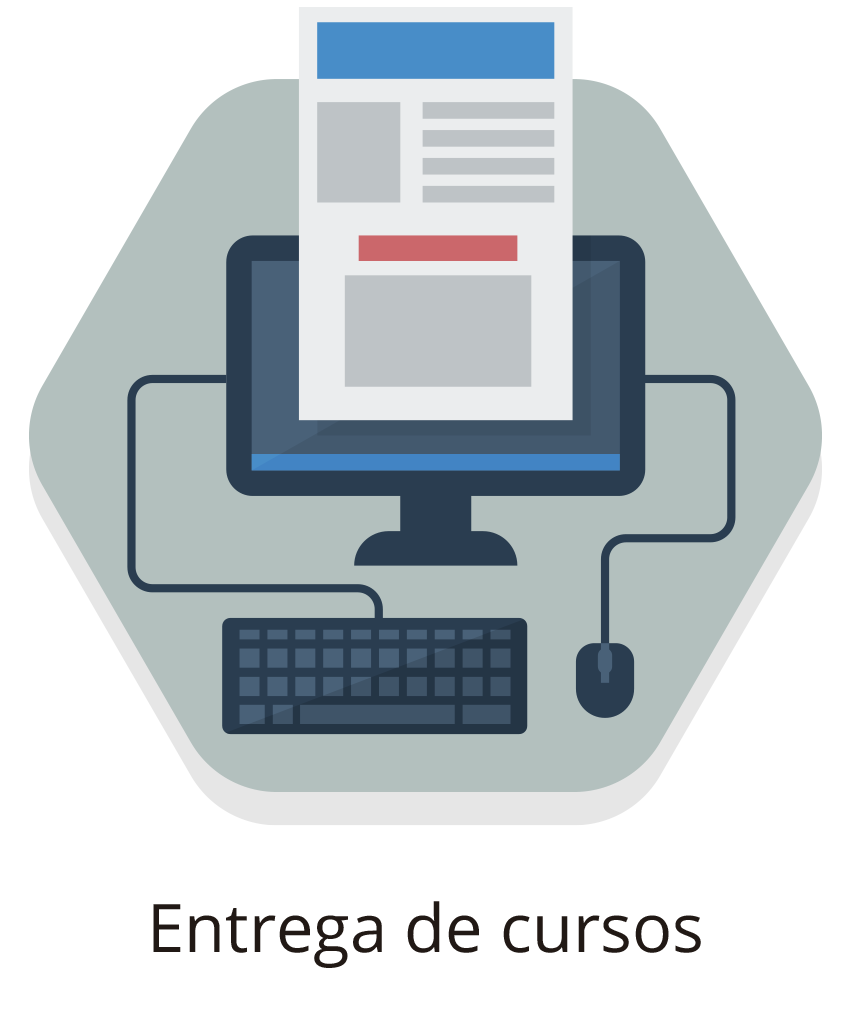
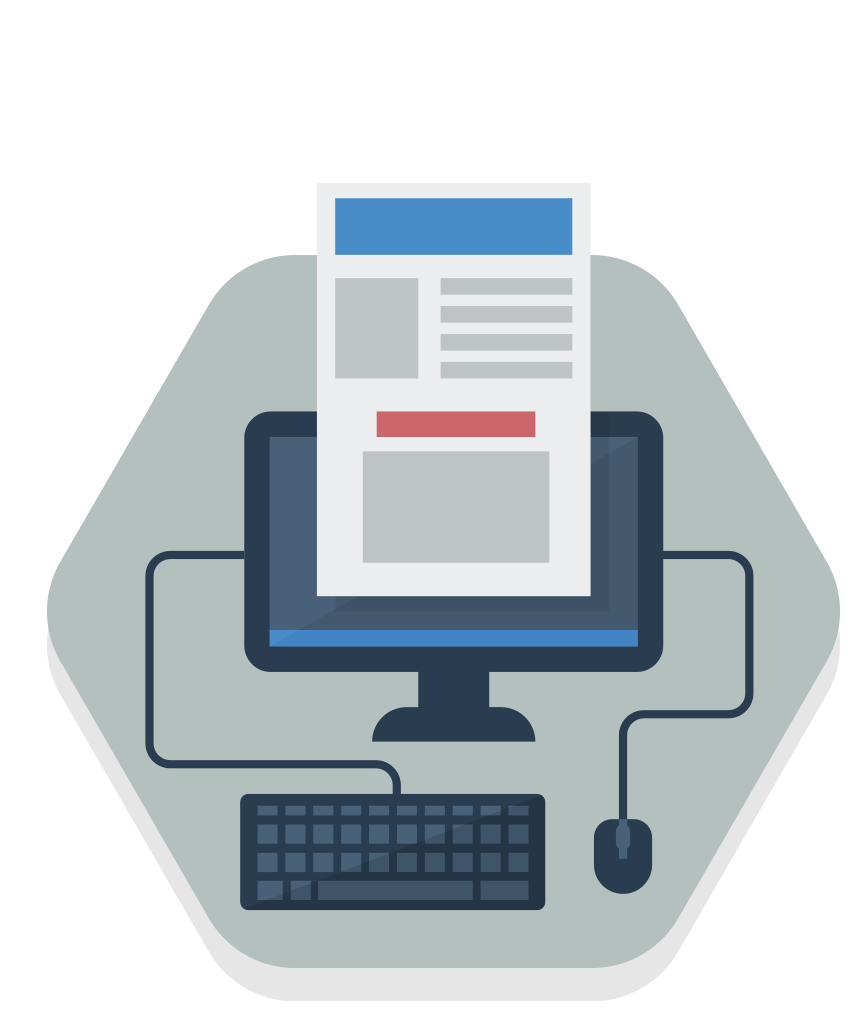
Cambios en iconos principales
Cambios en iconos principales y css

diff --git a/css/style.css b/css/style.css
@@ -12,7 +12,7 @@
 	margin: 20px;
 /*	background-size: 250px 250px;*/
 	background-size: 190px ;
-	height: 190px;
+	height: 200px;
 	width: 165px;
 }
 
@@ -30,13 +30,15 @@
 
 #bcd_01{
 	background-image: url("../img/bcd_01.png");
+  text-align: center;
 }
 #bcd_02{
 	background-image: url("../img/bcd_02.png");
+  text-align: center;
 }
 #bcd_03{
 	background-image: url("../img/bcd_03.png");
-
+  text-align: center;
 }
 
 #return{
